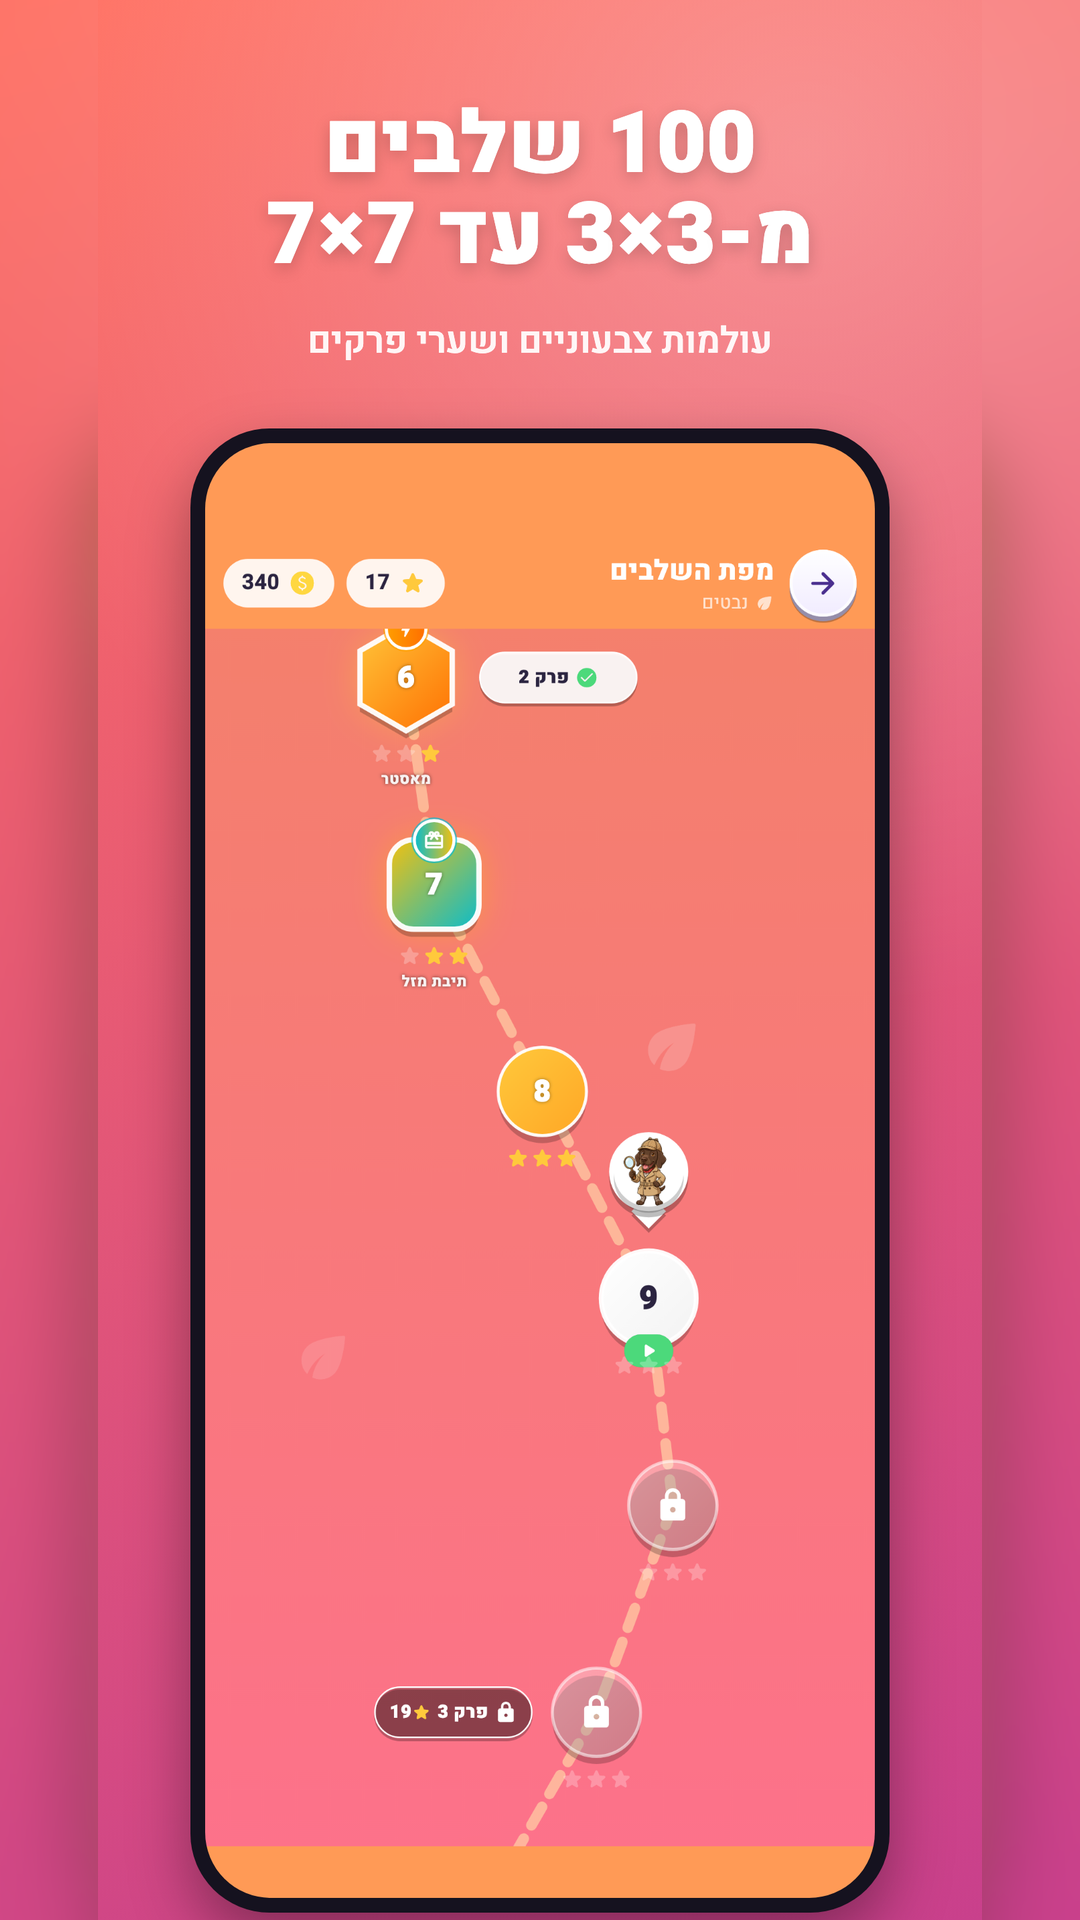
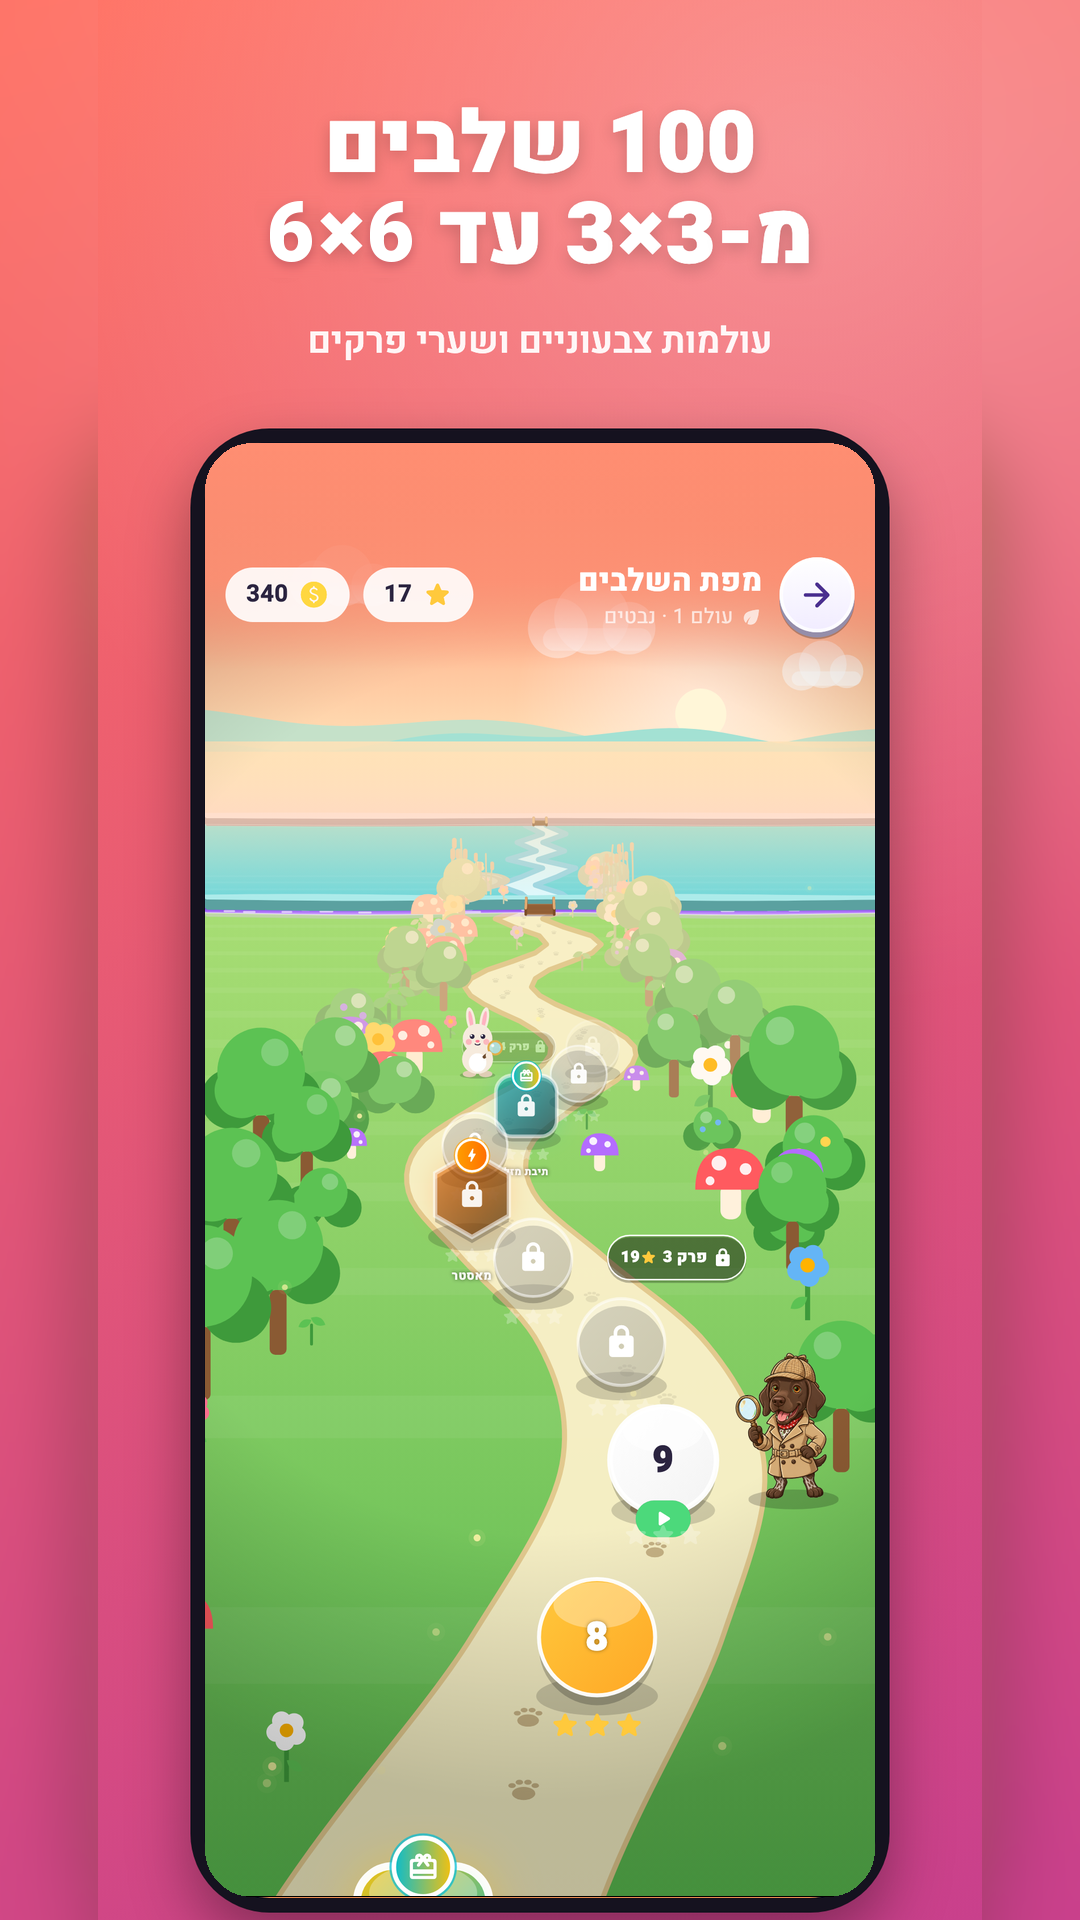
חנות: תיאור מדויק של גודל הלוח (עד 6×6 ב-100 השלבים, 7×7 מול חברים) ה-100 שלבים מגיעים עד 6×6 (עולם "פסגת המילים" 7×7 עוד לא פעיל); 7×7 קיים רק בחדרים מול חברים. מתקנים כדי שלא תהיה טענה לא מדויקת (הנחיה 2.3.1): - כיתוב צילום "100 שלבים" (App Store 6.9/6.3 ו-Google Play): 6×6. - תיאור החנות, הערות ל

diff --git a/lib/features/onboarding/onboarding_screen.dart b/lib/features/onboarding/onboarding_screen.dart
@@ -46,7 +46,7 @@ final List<_OnboardingPage> _pages = [
     '🌱',
     'הלוח גדל איתכם',
     'מתחילים בלוח קטן וקל (3×3), ומתקדמים בהדרגה ללוחות גדולים ומאתגרים\n'
-        'יותר - עד 7×7 בעולם "פסגת המילים"!',
+        'יותר - עד 6×6 ב"היער הגדול", ועד 7×7 במשחק מול חברים!',
   ),
   const _OnboardingPage(
     '👥',

diff --git a/docs/app-store/APP_REVIEW_REPLY.md b/docs/app-store/APP_REVIEW_REPLY.md
@@ -41,7 +41,7 @@ Thank you for reviewing מצא ת׳מילה ("Find the Word"). Here is the reque
 
 **1. Screen recording** - attached. It starts from launching the app and shows: sign-in with Apple (account creation/login), gameplay, an In-App Purchase, reporting and blocking another user, the blocked-users list, and account deletion.
 
-**2. Purpose and audience** - A Hebrew word-search puzzle game for Hebrew speakers aged 13+. Players drag a finger across adjacent letters to form Hebrew words on a grid that grows from 3×3 to 7×7 across 100 levels. It offers vocabulary practice and a daily brain challenge in Hebrew, a language with very few quality word games, plus a daily challenge and friendly real-time matches with friends.
+**2. Purpose and audience** - A Hebrew word-search puzzle game for Hebrew speakers aged 13+. Players drag a finger across adjacent letters to form Hebrew words on a grid that grows from 3×3 to 6×6 across 100 levels (up to 7×7 in private rooms with friends). It offers vocabulary practice and a daily brain challenge in Hebrew, a language with very few quality word games, plus a daily challenge and friendly real-time matches with friends.
 
 **3. Setup and access** - No account or credentials are needed. On the first screen tap "המשך כאורח/ת בלי להתחבר" (Continue as guest). Home screen: "המשך משחק" (Continue) starts the next level; "שחק נגד המחשב" (vs computer); "שחק נגד חברים" (vs friends); "אתגר יומי" (daily challenge); "חנות" (Store); gear icon = Settings. Optional sign-in: Settings → "התחברות / הרשמה" (Apple, Google or email). Account deletion: Settings → "מחיקת חשבון". Report/Block: the ⋮ button next to any other user (friends list, friend requests, game invites, room lobby). Blocked users: Settings → "משתמשים חסומים".
 

diff --git a/docs/app-store/APP_STORE_LISTING.md b/docs/app-store/APP_STORE_LISTING.md
@@ -40,7 +40,7 @@
 גוררים אצבע על אותיות סמוכות כדי ליצור מילה. כל מילה נכונה מוסיפה נקודות, ומילים ארוכות שוות יותר. אותיות סופיות? אין צורך לחפש אותן: המשחק ממיר לבד ך, ם, ן, ף, ץ בסוף המילה.
 
 מה מחכה לכם:
-• 100 שלבים בעולמות צבעוניים, והלוח גדל משלב לשלב מ-3×3 ועד 7×7
+• 100 שלבים בעולמות צבעוניים, והלוח גדל משלב לשלב מ-3×3 ועד 6×6 (ועד 7×7 במשחק מול חברים)
 • מילון עברי עשיר עם עשרות אלפי מילים: שמות עצם, פעלים בכל הבניינים, תארים, נטיות וסלנג
 • אותיות קשות (ז, ט, צ, ג, ס, ק, פ) בסגול, שוות נקודה נוספת
 • שלושה כוכבים לכל שלב, תיבות מזל, גלגל מזל ופרסים

diff --git a/docs/google-play/GOOGLE_PLAY_GUIDE.md b/docs/google-play/GOOGLE_PLAY_GUIDE.md
@@ -56,7 +56,7 @@
 גוררים אצבע על אותיות סמוכות כדי ליצור מילה. כל מילה נכונה מוסיפה נקודות, ומילים ארוכות שוות יותר. אותיות סופיות? אין צורך לחפש אותן: המשחק ממיר לבד ך, ם, ן, ף, ץ בסוף המילה.
 
 מה מחכה לכם:
-• 100 שלבים בעולמות צבעוניים, והלוח גדל משלב לשלב מ-3×3 ועד 7×7
+• 100 שלבים בעולמות צבעוניים, והלוח גדל משלב לשלב מ-3×3 ועד 6×6 (ועד 7×7 במשחק מול חברים)
 • מילון עברי עשיר עם עשרות אלפי מילים: שמות עצם, פעלים בכל הבניינים, תארים, נטיות וסלנג
 • אותיות קשות (ז, ט, צ, ג, ס, ק, פ) בסגול, שוות נקודה נוספת
 • שלושה כוכבים לכל שלב, תיבות מזל, גלגל מזל ופרסים
